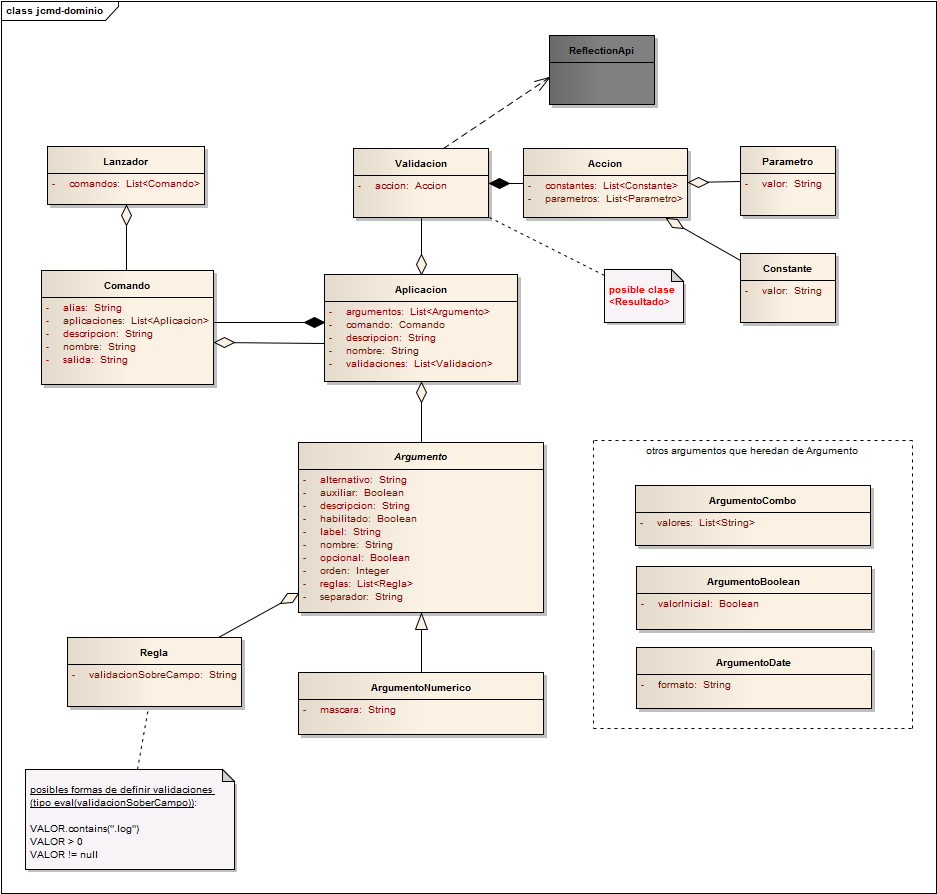
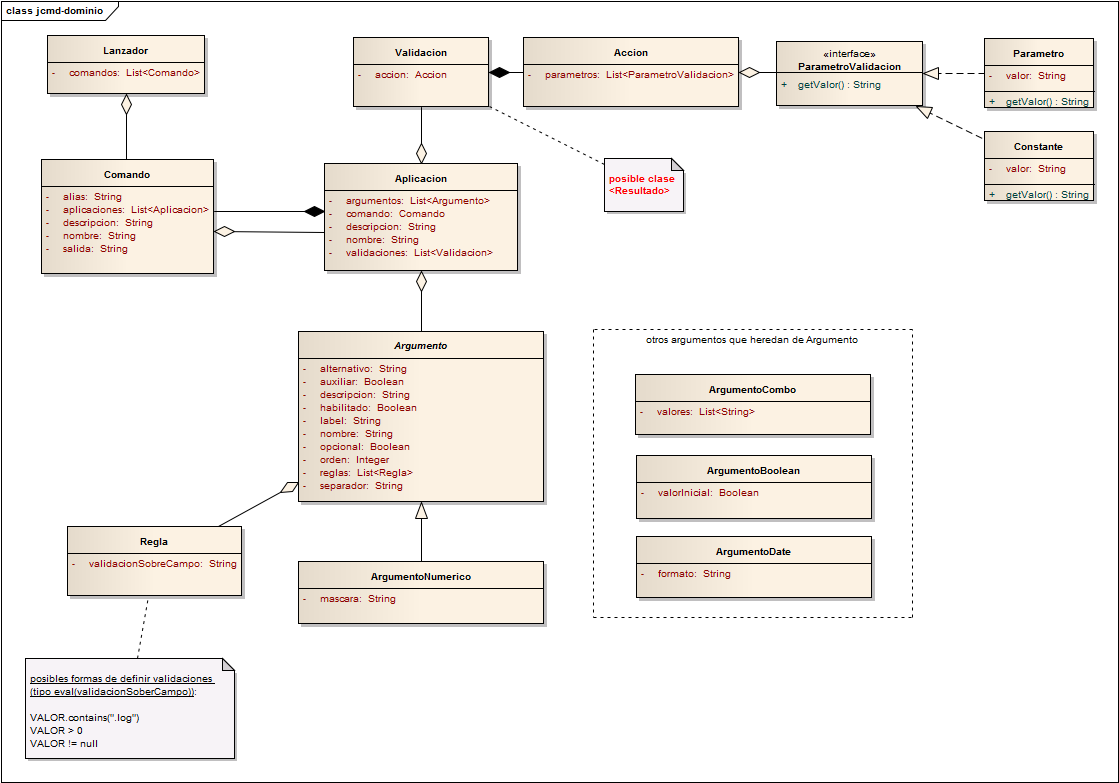
cambio lista de parámetros y constantes de las validaciones por una única lista + interfaz de parámetro y constante - modificación del diagrama de clases

diff --git a/pruebas/test/ar/com/algo2/jcmd/JCmdToolXMLFactoryTest.java b/pruebas/test/ar/com/algo2/jcmd/JCmdToolXMLFactoryTest.java
@@ -28,7 +28,7 @@ public class JCmdToolXMLFactoryTest extends TestCase {
 
 		xmlFactory.init(new JCmdToolXStreamParser());
 
-		Lanzador lanzador = xmlFactory.getLanzadorFromXml("test.xml");
+		Lanzador lanzador = xmlFactory.getLanzadorFromXml("test.xml");	
 
 		assertNotNull(lanzador);		
 	}
@@ -39,7 +39,7 @@ public class JCmdToolXMLFactoryTest extends TestCase {
 		xmlFactory.init(new JCmdToolSAXParser());
 
 		Lanzador lanzador = xmlFactory.getLanzadorFromXml("test.xml");
-
+		
 		assertNotNull(lanzador);
 
 	}
@@ -252,18 +252,17 @@ public class JCmdToolXMLFactoryTest extends TestCase {
 	}
 	
 	private static void evalValidaciones(Lanzador lanzador) {
-		
-
+				
 		assertEquals(2,lanzador.getComandos().get(0).getAplicaciones().get(0).getValidaciones().size());
 
 		assertEquals("habilitarCampoSiCheckboxEstaEnTrue",lanzador.getComandos().get(0).getAplicaciones().get(0).getValidaciones().get(0).getAccion().getNombre());
 		assertEquals("-v",lanzador.getComandos().get(0).getAplicaciones().get(0).getValidaciones().get(0).getAccion().getParametros().get(0).getValor());
 		assertEquals("pathVerbose",lanzador.getComandos().get(0).getAplicaciones().get(0).getValidaciones().get(0).getAccion().getParametros().get(1).getValor());
 
-		assertEquals("mostrarFechaEnFormatoLatino",lanzador.getComandos().get(0).getAplicaciones().get(0).getValidaciones().get(1).getAccion().getNombre());
-		assertEquals("--date",lanzador.getComandos().get(0).getAplicaciones().get(0).getValidaciones().get(1).getAccion().getParametros().get(0).getValor());
-		assertEquals("La fecha de hoy es: ",lanzador.getComandos().get(0).getAplicaciones().get(0).getValidaciones().get(1).getAccion().getConstantes().get(0).getValor());
-
+		assertEquals("mostrarFechaEnFormatoLatino",lanzador.getComandos().get(0).getAplicaciones().get(0).getValidaciones().get(1).getAccion().getNombre());		
+		assertEquals("La fecha de hoy es: "	,lanzador.getComandos().get(0).getAplicaciones().get(0).getValidaciones().get(1).getAccion().getParametros().get(0).getValor());
+		assertEquals("--date",lanzador.getComandos().get(0).getAplicaciones().get(0).getValidaciones().get(1).getAccion().getParametros().get(1).getValor());
+		
 	}
 
 

diff --git a/pruebas/src/ar/com/algo2/jcmd/dominio/Accion.java b/pruebas/src/ar/com/algo2/jcmd/dominio/Accion.java
@@ -4,54 +4,40 @@ import java.util.ArrayList;
 import java.util.List;
 
 public class Accion {
-	
+
 	private String nombre;
-	private List<Parametro> parametros = new ArrayList<Parametro>();
-	private List<Constante> constantes = new ArrayList<Constante>();
-	
-	public List<Parametro> getParametros() {
-		return parametros;
-	}
-	public void setParametros(List<Parametro> parametros) {
-		this.parametros = parametros;
-	}
-	public List<Constante> getConstantes() {
-		return constantes;
-	}
-	public void setConstantes(List<Constante> constantes) {
-		this.constantes = constantes;
-	}
+	private List<ParametroValidacion> parametros = new ArrayList<ParametroValidacion>();
+
 	public String getNombre() {
 		return nombre;
 	}
+
 	public void setNombre(String nombre) {
 		this.nombre = nombre;
 	}
-	public void addParametro(Parametro parametro) {
+
+	public List<ParametroValidacion> getParametros() {
+		return parametros;
+	}
+	public void setParametros(List<ParametroValidacion> parametros) {
+		this.parametros = parametros;
+	}
+
+	public void addParametro(ParametroValidacion parametro) {
 		this.parametros.add(parametro);
 	}
-	
-	public void addConstante(Constante constante) {
-		this.constantes.add(constante);
-	}
-	
+
+
 	@Override
 	public String toString() {
-		
-		StringBuffer buff1 = new StringBuffer();
-		
-		for (Parametro param: this.parametros)
-			buff1.append(param.toString()).append(",");
-		
-		StringBuffer buff2 = new StringBuffer();
-		
-		for (Constante constante: this.constantes)
-			buff2.append(constante.toString()).append(",");
 
-		
-		return "Accion [nombre=" + nombre  + ", parametros=" + buff1.toString() + ", constantes=" + buff2.toString() + "]";
+		StringBuffer buff = new StringBuffer();
+
+		for (ParametroValidacion param: this.parametros)
+			buff.append(param.toString()).append(",");
+
+		return "Accion [nombre=" + nombre  + ", parametros=" + buff.toString() + "]";		
+
 	}
-	
-	
 
 }

diff --git a/pruebas/src/ar/com/algo2/jcmd/dominio/converters/AccionConverter.java b/pruebas/src/ar/com/algo2/jcmd/dominio/converters/AccionConverter.java
@@ -3,6 +3,7 @@ package ar.com.algo2.jcmd.dominio.converters;
 import ar.com.algo2.jcmd.dominio.Accion;
 import ar.com.algo2.jcmd.dominio.Constante;
 import ar.com.algo2.jcmd.dominio.Parametro;
+import ar.com.algo2.jcmd.dominio.ParametroValidacion;
 
 import com.thoughtworks.xstream.converters.Converter;
 import com.thoughtworks.xstream.converters.MarshallingContext;
@@ -23,19 +24,19 @@ public class AccionConverter implements Converter {
 		Accion accion = (Accion) obj;
 
 		writer.addAttribute("nombre", accion.getNombre());
+		
+		for (ParametroValidacion parametro: accion.getParametros()) {
 
-		for (Parametro parametro: accion.getParametros()) {
-
-			writer.startNode("parametro");
+			if (parametro instanceof Parametro) 
+				writer.startNode("parametro");
+			
+			else if (parametro instanceof Constante) 
+				writer.startNode("constante");
+		
 			ctx.convertAnother(parametro);
 			writer.endNode();
 		}
-
-		for (Constante constante: accion.getConstantes()) {
-			writer.startNode("constante");
-			ctx.convertAnother(constante);
-			writer.endNode();
-		}
+		
 	}
 
 	@Override
@@ -55,7 +56,7 @@ public class AccionConverter implements Converter {
 
 			} else if ("constante".equals(reader.getNodeName())) {
 				Constante constante = (Constante) ctx.convertAnother(accion, Constante.class);
-				accion.addConstante(constante);
+				accion.addParametro(constante);
 
 			}
 			

diff --git a/pruebas/src/ar/com/algo2/jcmd/parsers/JCmdToolSAXParserHandler.java b/pruebas/src/ar/com/algo2/jcmd/parsers/JCmdToolSAXParserHandler.java
@@ -274,7 +274,7 @@ public class JCmdToolSAXParserHandler extends DefaultHandler {
 
 		if(constante)
 		{
-			lanzador.getUltimoComando().getUltimaAplicacion().getUltimaValidacion().getAccion().addConstante(new Constante(new String(ch, start, length)));
+			lanzador.getUltimoComando().getUltimaAplicacion().getUltimaValidacion().getAccion().addParametro(new Constante(new String(ch, start, length)));
 			this.constante = false;
 		}
 

diff --git a/pruebas/src/ar/com/algo2/jcmd/dominio/Parametro.java b/pruebas/src/ar/com/algo2/jcmd/dominio/Parametro.java
@@ -1,6 +1,6 @@
 package ar.com.algo2.jcmd.dominio;
 
-public class Parametro {
+public class Parametro implements ParametroValidacion {
 	
 	private String valor;
 

diff --git a/pruebas/src/ar/com/algo2/jcmd/dominio/Constante.java b/pruebas/src/ar/com/algo2/jcmd/dominio/Constante.java
@@ -1,6 +1,6 @@
 package ar.com.algo2.jcmd.dominio;
 
-public class Constante {
+public class Constante implements ParametroValidacion {
 
 	private String valor;
 

diff --git a/pruebas/src/ar/com/algo2/jcmd/dominio/ParametroValidacion.java b/pruebas/src/ar/com/algo2/jcmd/dominio/ParametroValidacion.java
@@ -1,0 +1,7 @@
+package ar.com.algo2.jcmd.dominio;
+
+public interface ParametroValidacion {
+	
+	public String getValor();
+
+}
